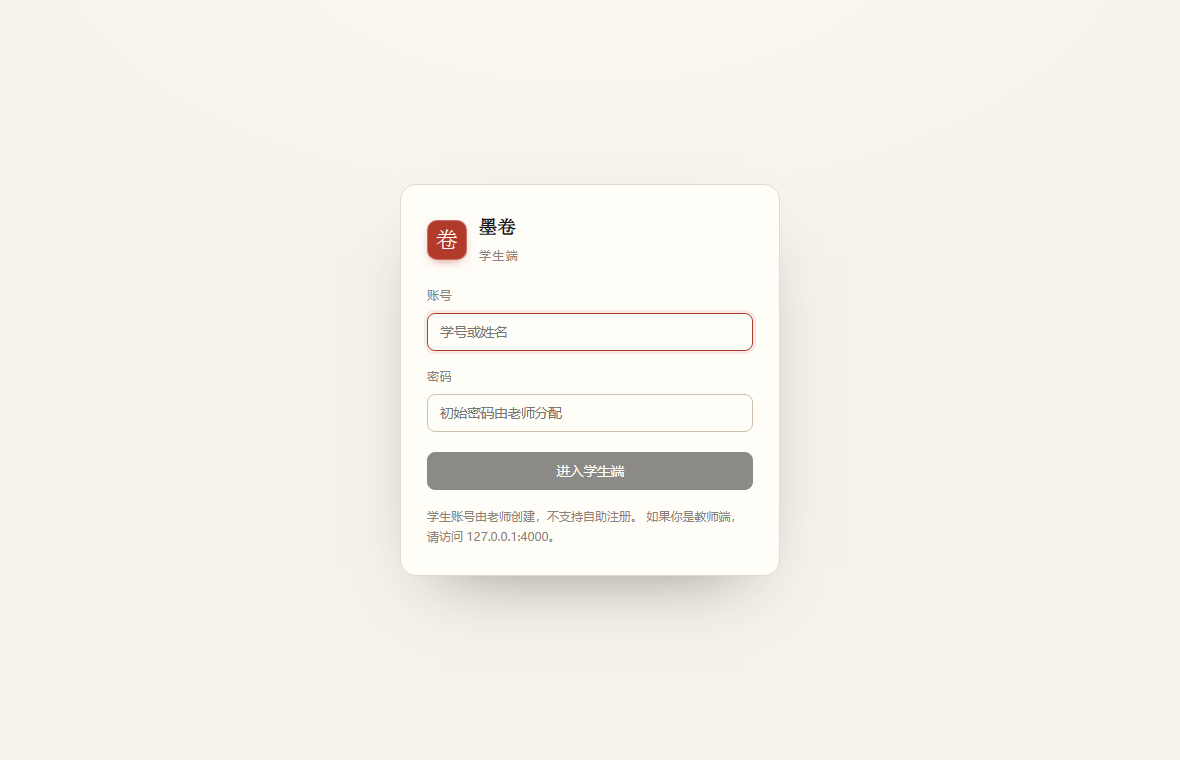
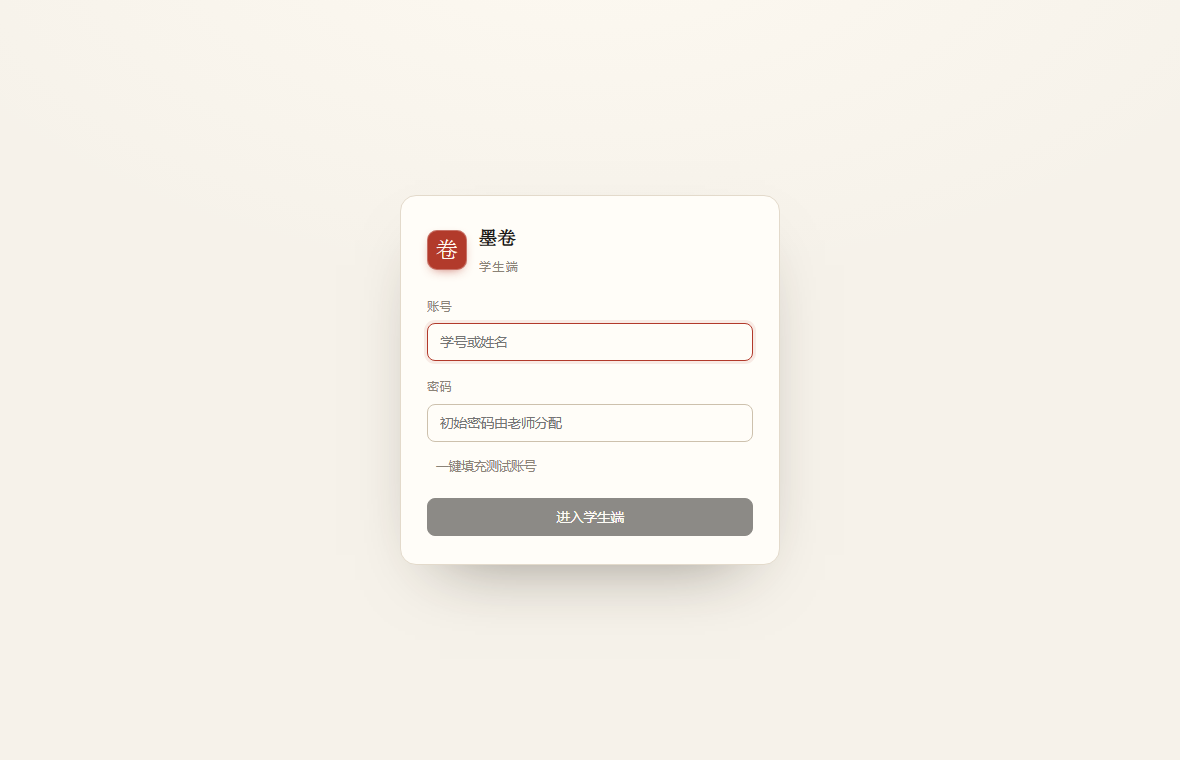
feat(login): 去掉登录页小字，改为「一键填充测试账号」
- 删掉登录页底部那段说明文字（账号来源、另一端口地址）
- 新增快速填充按钮：点了自动填入测试账号，不自动提交
- 凭据由服务端 /api/auth/demo-credentials 提供，且**只在默认口令未被修改时**返回；
  老师一改密码按钮就消失，不留永久可读口令的后门

顺带修一个真 Bug：服务端启动时缓存了 index.html，重新构建后仍发旧 HTML，
引用的带哈希资源已不存在，整站白屏。改为每次请求读盘注入角色。

Prompt-ID: P25

Changed region(s): [[0.3356, 0.2724, 0.6712, 0.7566], [0.6102, 0.5145, 0.6407, 0.5447], [0.6102, 0.4539, 0.6407, 0.4842]]

diff --git a/web/src/pages/login.tsx b/web/src/pages/login.tsx
@@ -1,6 +1,6 @@
-import { useState } from 'react'
+import { useEffect, useState } from 'react'
 import type { PublicUser } from '@shared/auth.js'
-import { login } from '../auth.js'
+import { fetchDemoCredentials, login } from '../auth.js'
 
 /**
  * 两个端口共用同一个登录页，但标题与提示按端区分。
@@ -8,17 +8,21 @@ import { login } from '../auth.js'
  */
 export function LoginPage({
   role,
-  peerPort,
   onLoggedIn,
 }: {
   role: 'teacher' | 'student'
-  peerPort?: number
   onLoggedIn: (user: PublicUser) => void
 }) {
   const [username, setUsername] = useState('')
   const [password, setPassword] = useState('')
   const [error, setError] = useState<string | null>(null)
   const [busy, setBusy] = useState(false)
+  const [demo, setDemo] = useState<{ username: string; password: string } | null>(null)
+
+  // 只有默认口令还没改过时才会有值；改过密码按钮就自动消失
+  useEffect(() => {
+    void fetchDemoCredentials().then(setDemo)
+  }, [])
 
   const submit = async (event: React.FormEvent): Promise<void> => {
     event.preventDefault()
@@ -34,8 +38,6 @@ export function LoginPage({
       setBusy(false)
     }
   }
-
-  const other = role === 'teacher' ? '学生端' : '教师端'
 
   return (
     <div className="login-wrap">
@@ -74,23 +76,23 @@ export function LoginPage({
 
         {error && <div className="statusbar err" style={{ marginTop: 4 }}>{error}</div>}
 
+        {demo && (
+          <button
+            className="btn btn-sm btn-ghost login-fill"
+            type="button"
+            onClick={() => {
+              setUsername(demo.username)
+              setPassword(demo.password)
+              setError(null)
+            }}
+          >
+            一键填充测试账号
+          </button>
+        )}
+
         <button className="btn btn-primary" type="submit" disabled={busy || !username || !password}>
           {busy ? '登录中…' : role === 'teacher' ? '进入教师端' : '进入学生端'}
         </button>
-
-        <p className="muted" style={{ fontSize: 12, margin: 0, lineHeight: 1.7 }}>
-          学生账号由老师创建，不支持自助注册。
-          {peerPort ? (
-            <>
-              {' '}
-              如果你是{other}，请访问{' '}
-              <a href={`http://${window.location.hostname}:${peerPort}/`}>
-                {window.location.hostname}:{peerPort}
-              </a>
-              。
-            </>
-          ) : null}
-        </p>
       </form>
     </div>
   )

diff --git a/server/app.ts b/server/app.ts
@@ -155,14 +155,18 @@ export async function buildApp(deps: AppDeps): Promise<FastifyInstance> {
   // ── 静态资源 + 按端注入角色 ────────────────────────────────────────
   const indexFile = join(config.webDist, 'index.html')
   if (existsSync(indexFile)) {
-    const html = readFileSync(indexFile, 'utf8')
-    // 同一个构建产物，两端各自注入角色，前端据此决定渲染哪一套页面
-    const withRole = html.replace(
-      '</head>',
-      `<script>window.__MJUAN_ROLE__=${JSON.stringify(role)}</script></head>`,
-    )
-    // 路由优先级：具名 `GET /` 高于静态插件的通配，所以这里能覆盖 index.html
-    app.get('/', async (_request, reply) => reply.type('text/html; charset=utf-8').send(withRole))
+    /**
+     * 每次请求都读盘注入角色，**不能缓存**：
+     * 构建后文件名带新哈希，缓存住旧 HTML 会让 /assets/* 全部 404，整站白屏。
+     * 文件只有几百字节，重读的代价可以忽略。
+     */
+    app.get('/', async (_request, reply) => {
+      const html = readFileSync(indexFile, 'utf8').replace(
+        '</head>',
+        `<script>window.__MJUAN_ROLE__=${JSON.stringify(role)}</script></head>`,
+      )
+      return reply.type('text/html; charset=utf-8').send(html)
+    })
     // 不要关掉 wildcard：关掉之后只有 "/" 能被服务，/assets/* 全部 404，页面白屏
     await app.register(fastifyStatic, { root: config.webDist, prefix: '/', index: false })
   } else {

diff --git a/server/routes/auth.ts b/server/routes/auth.ts
@@ -57,6 +57,25 @@ export function registerAuthRoutes(app: FastifyInstance, deps: { role: Role; pee
     return { user, expectedRole: deps.role }
   })
 
+  /**
+   * 登录页的"快速填充"数据源。
+   * 只在**默认口令还没被改过**时才返回——它自带失效条件：
+   * 老师一旦改了密码，前端按钮自动消失，不会留下一个永远能拿到口令的后门。
+   */
+  app.get('/api/auth/demo-credentials', async () => {
+    const candidates =
+      deps.role === 'teacher'
+        ? [{ username: (process.env.TEACHER_USER ?? 'teacher').trim(), password: 'mujuan2026' }]
+        : [{ username: 'xiaoman', password: '123456' }]
+
+    for (const candidate of candidates) {
+      if (verifyLogin(candidate.username, candidate.password)) {
+        return { credentials: candidate }
+      }
+    }
+    return { credentials: null }
+  })
+
   // ── 以下仅教师可用：班级成员管理 ────────────────────────────────
   app.get('/api/users', async (request, reply) => {
     const user = currentUser(request)

diff --git a/web/src/styles.css b/web/src/styles.css
@@ -684,4 +684,14 @@ table.plain tr:last-child td { border-bottom: none; }
 }
 .login-brand strong { display: block; font-family: var(--font-display); font-size: 18px; letter-spacing: .04em; }
 .login-brand span { font-size: 11.5px; color: var(--ink-3); letter-spacing: .16em; }
-.login-card .btn { width: 100%; justify-content: center; margin-top: 4px; }
+.login-card .btn-primary { width: 100%; justify-content: center; margin-top: 4px; }
+
+/* 登录页的快速填充：次要动作，别抢主按钮的视线 */
+.login-fill {
+  align-self: flex-start;
+  margin-top: -4px;
+  color: var(--ink-3);
+  font-size: 12.5px;
+  padding: 3px 8px;
+}
+.login-fill:hover { color: var(--seal); }

diff --git a/web/src/auth.ts b/web/src/auth.ts
@@ -24,3 +24,15 @@ export async function login(username: string, password: string): Promise<PublicU
 export async function logout(): Promise<void> {
   await fetch('/api/auth/logout', { method: 'POST' })
 }
+
+/** 默认口令没被改过时，服务端才会给出测试账号；否则返回 null */
+export async function fetchDemoCredentials(): Promise<{ username: string; password: string } | null> {
+  try {
+    const res = await fetch('/api/auth/demo-credentials')
+    if (!res.ok) return null
+    const data = (await res.json()) as { credentials?: { username: string; password: string } | null }
+    return data.credentials ?? null
+  } catch {
+    return null
+  }
+}

diff --git a/web/src/App.tsx b/web/src/App.tsx
@@ -106,7 +106,7 @@ export function App() {
 
   if (!authChecked) return <div className="stage-empty" style={{ paddingTop: 120 }}>载入中…</div>
   if (!user) {
-    return <LoginPage role={ROLE_ID} peerPort={health?.peerPort} onLoggedIn={setUser} />
+    return <LoginPage role={ROLE_ID} onLoggedIn={setUser} />
   }
 
   // 同一个构建产物，两端各自注入角色：教师端渲染出卷/卷库/接入，学生端只渲染试卷与错题
